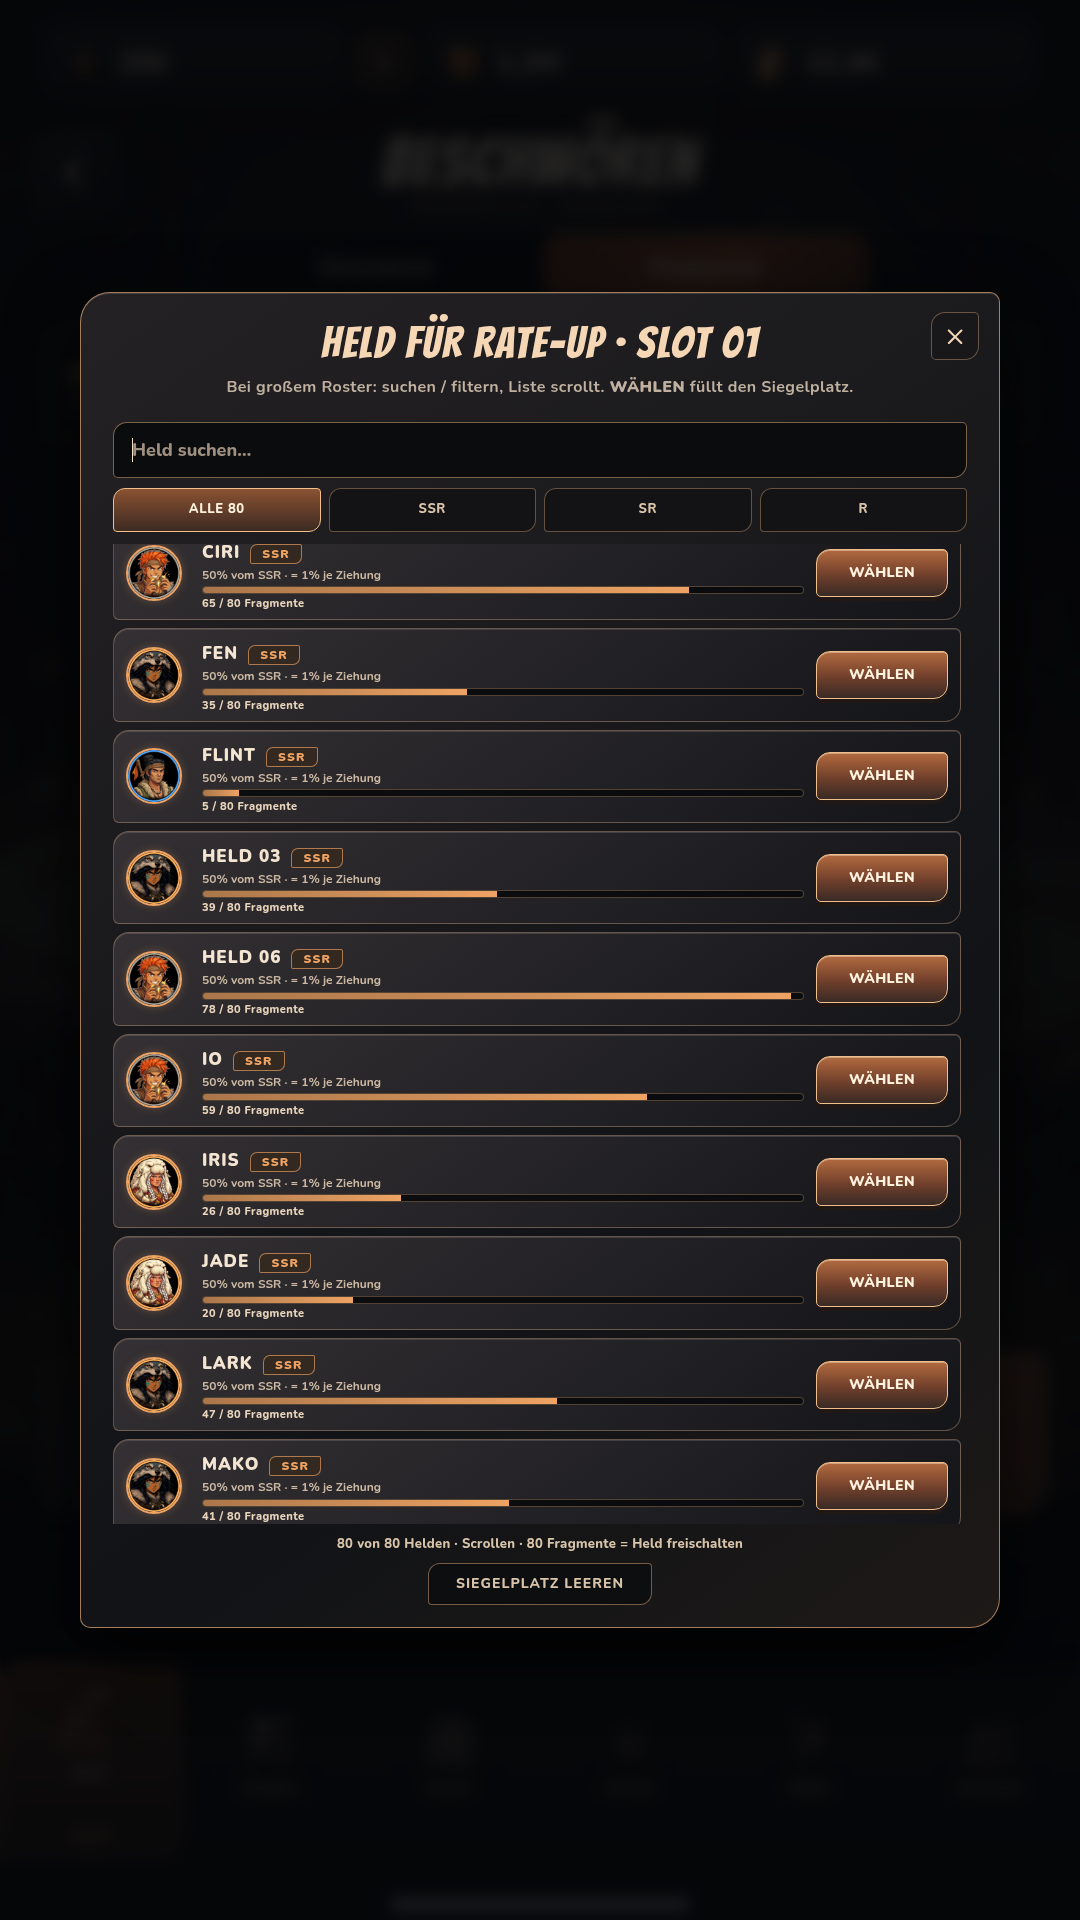
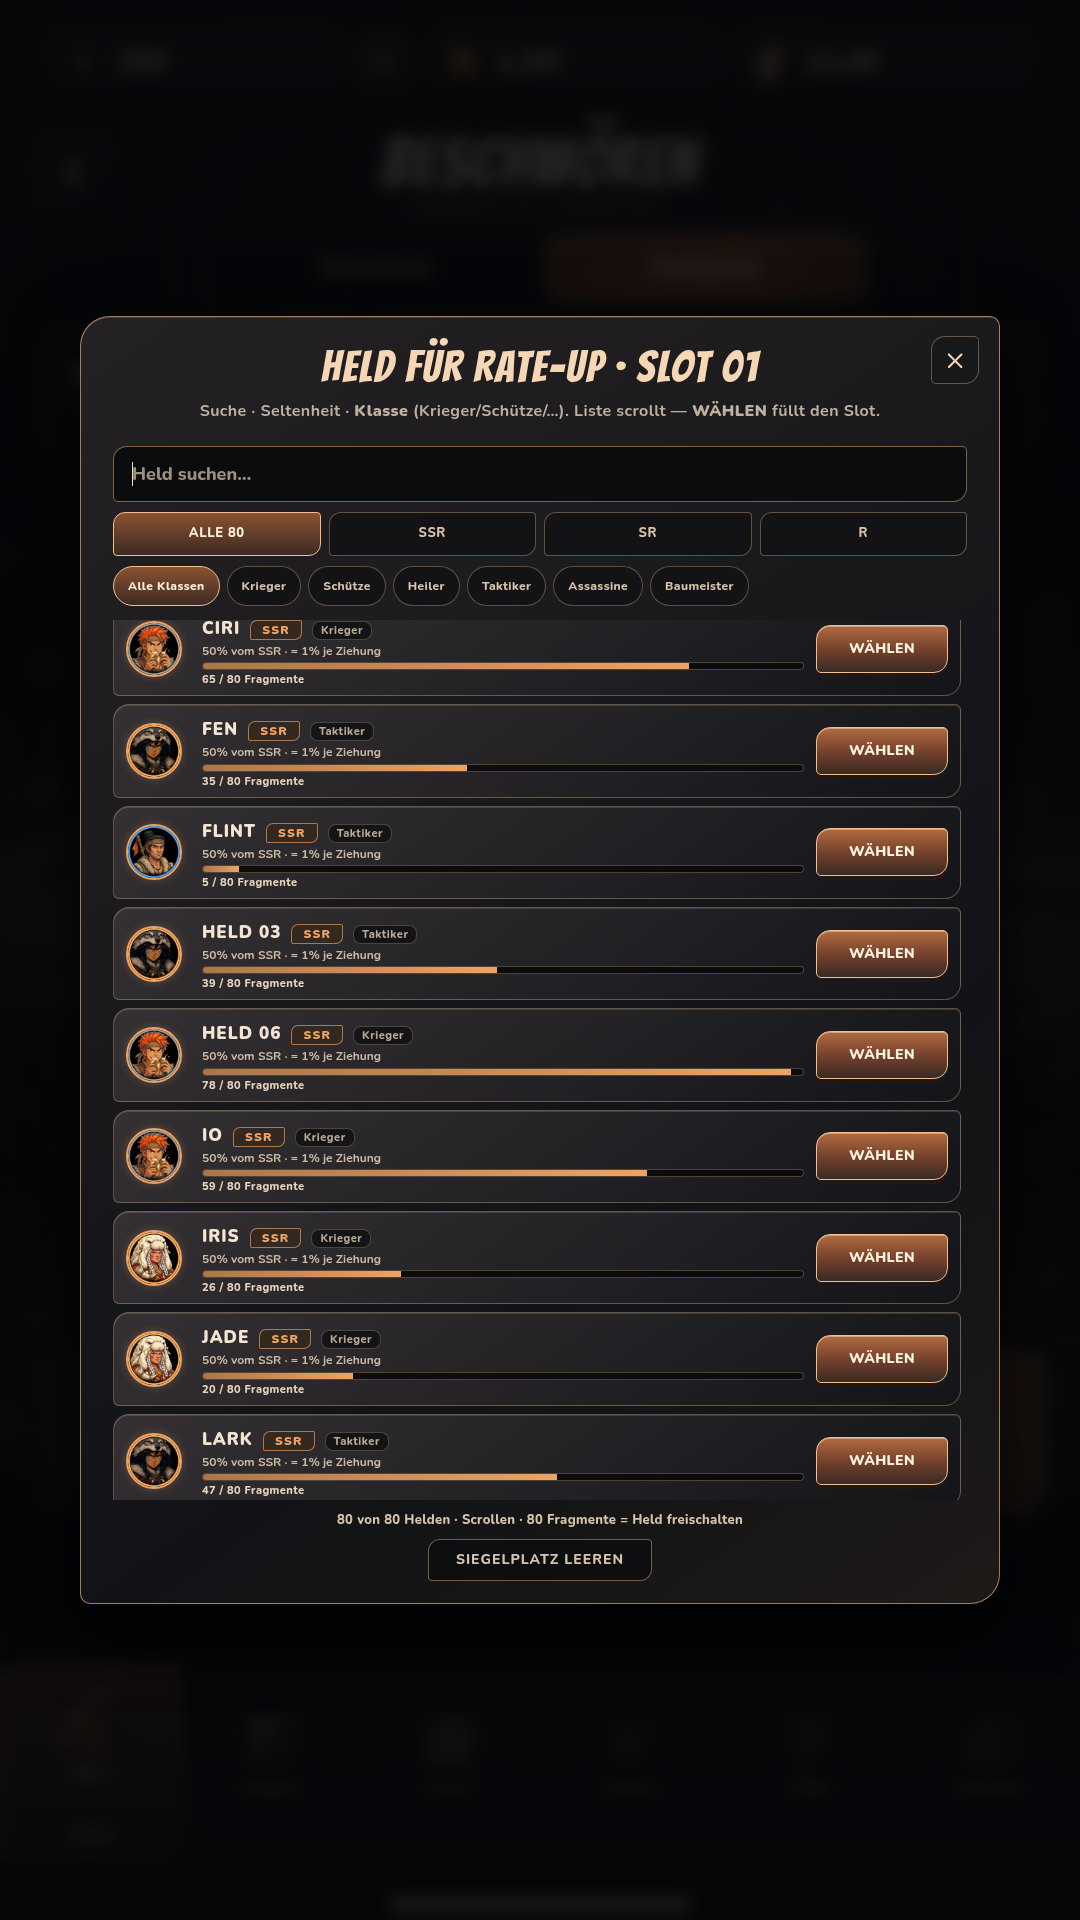
art(hud-d2): Rate-up-Picker Klassenfilter (GDD)
Chips für Krieger/Schütze/Heiler/Taktiker/Assassine/Baumeister
plus Klassen-Badge in der Liste.

Changed region(s): [[0.0611, 0.125, 0.9472, 0.875], [0.8556, 0.1562, 0.9167, 0.1875]]

diff --git a/team/art/ui-kit/menus_v3/_src/html/v3_2_obsidian_beschwoeren_reveal_v16_interaktiv.html b/team/art/ui-kit/menus_v3/_src/html/v3_2_obsidian_beschwoeren_reveal_v16_interaktiv.html
@@ -136,9 +136,14 @@ html[data-mode="standard"] .card-zone{top:366px}
 #picker-search{width:100%;height:56px;padding:0 18px;border:1px solid rgba(214,169,122,.55);border-radius:14px 5px 14px 5px;background:rgba(10,11,13,.92);color:#f2dfc8;font:800 18px/1 Nunito;outline:none;box-sizing:border-box}
 #picker-search::placeholder{color:#9e8f7e}
 .picker-filters{display:flex;gap:8px}
+.picker-classes{display:flex;gap:7px;overflow-x:auto;padding-bottom:2px;scrollbar-width:thin}
+.pc{flex:0 0 auto;height:40px;padding:0 14px;border:1px solid rgba(205,159,119,.42);border-radius:20px;background:rgba(18,18,20,.88);color:#d8c3aa;font:800 12px/1 Nunito;letter-spacing:.4px;white-space:nowrap}
+.pc.active{border-color:#f1bf8c;background:linear-gradient(180deg,#8a5232,#3d2a22);color:#fff2de}
+.hero-meta .cls{color:#b9a894;font:800 11px/1 Nunito;letter-spacing:.5px;padding:3px 8px;border:1px solid rgba(185,160,132,.35);border-radius:8px;background:rgba(10,11,13,.7)}
+
 .pf{flex:1;height:44px;border:1px solid rgba(205,159,119,.45);border-radius:12px 4px 12px 4px;background:rgba(18,18,20,.88);color:#d8c3aa;font:800 13px/1 Nunito;letter-spacing:.6px}
 .pf.active{border-color:#f1bf8c;background:linear-gradient(180deg,#8a5232,#3d2a22);color:#fff2de}
-.hero-options{display:flex;flex-direction:column;gap:8px;height:980px;overflow-y:auto;text-align:left;padding-right:6px;scrollbar-width:thin;scrollbar-color:#c9956a #1a1716}
+.hero-options{display:flex;flex-direction:column;gap:8px;height:880px;overflow-y:auto;text-align:left;padding-right:6px;scrollbar-width:thin;scrollbar-color:#c9956a #1a1716}
 .hero-option{display:grid;grid-template-columns:64px 1fr auto;gap:12px;align-items:center;padding:10px 12px;border:1px solid rgba(211,171,136,.39);border-radius:16px 6px 16px 6px;background:linear-gradient(145deg,#343033,#141519);box-shadow:inset 0 1px 0 #fff2;color:inherit;width:100%;box-sizing:border-box;flex:0 0 auto}
 .hero-option img{width:56px;height:56px;object-fit:cover;border:2px solid var(--rarity);border-radius:50%;box-shadow:0 0 10px color-mix(in srgb,var(--rarity) 28%,transparent)}
 .hero-meta{display:flex;flex-direction:column;gap:4px;min-width:0}
@@ -187,7 +192,7 @@ html[data-show-tap='1'] .rate-tap-hint{display:block}
   <div class="picker-panel">
     <button class="picker-close" id="picker-close" type="button" aria-label="Schließen">×</button>
     <h2 id="picker-title">HELD FÜR RATE-UP WÄHLEN</h2>
-    <p>Bei großem Roster: suchen / filtern, Liste scrollt. <b>WÄHLEN</b> füllt den Siegelplatz.</p>
+    <p>Suche · Seltenheit · <b>Klasse</b> (Krieger/Schütze/…). Liste scrollt — <b>WÄHLEN</b> füllt den Slot.</p>
     <div class="picker-tools">
       <input id="picker-search" type="search" placeholder="Held suchen…" autocomplete="off" aria-label="Held suchen">
       <div class="picker-filters" role="tablist" aria-label="Seltenheit">
@@ -195,6 +200,15 @@ html[data-show-tap='1'] .rate-tap-hint{display:block}
         <button type="button" class="pf" data-filter="SSR" aria-selected="false">SSR</button>
         <button type="button" class="pf" data-filter="SR" aria-selected="false">SR</button>
         <button type="button" class="pf" data-filter="R" aria-selected="false">R</button>
+      </div>
+      <div class="picker-classes" role="tablist" aria-label="Klasse">
+        <button type="button" class="pc active" data-class="ALL" aria-selected="true">Alle Klassen</button>
+        <button type="button" class="pc" data-class="warrior" aria-selected="false">Krieger</button>
+        <button type="button" class="pc" data-class="marksman" aria-selected="false">Schütze</button>
+        <button type="button" class="pc" data-class="healer" aria-selected="false">Heiler</button>
+        <button type="button" class="pc" data-class="tactician" aria-selected="false">Taktiker</button>
+        <button type="button" class="pc" data-class="assassin" aria-selected="false">Assassine</button>
+        <button type="button" class="pc" data-class="builder" aria-selected="false">Baumeister</button>
       </div>
     </div>
     <div class="hero-options" id="hero-options"></div>
@@ -236,11 +250,19 @@ html[data-show-tap='1'] .rate-tap-hint{display:block}
 <script>
 (function(){
   'use strict';
+  var CLASSES=[
+    {id:'warrior',label:'Krieger'},
+    {id:'marksman',label:'Schütze'},
+    {id:'healer',label:'Heiler'},
+    {id:'tactician',label:'Taktiker'},
+    {id:'assassin',label:'Assassine'},
+    {id:'builder',label:'Baumeister'}
+  ];
   var baseHeroes={
-    NARA:{name:'NARA',rarity:'SSR',tone:'#eea363',image:'../../_assets/reveal_v16/nara_circle.png',chance:'50% vom SSR · = 1% je Ziehung',frags:12,ready:false},
-    OLM:{name:'OLM',rarity:'SR',tone:'#67a9c1',image:'../../_assets/reveal_v16/olm_circle.png',chance:'SR-Pool · 18% Bannerchance',frags:47,ready:false},
-    KIKO:{name:'KIKO',rarity:'R',tone:'#b7a58f',image:'../../_assets/reveal_v16/kiko_circle.png',chance:'R-Pool · 80% Bannerchance',frags:80,ready:true},
-    RUKA:{name:'RUKA',rarity:'SSR',tone:'#eea363',image:'../../_assets/reveal_v16/ruka_circle.png',chance:'50% vom SSR · = 1% je Ziehung',frags:29,ready:false}
+    NARA:{name:'NARA',rarity:'SSR',cls:'marksman',tone:'#eea363',image:'../../_assets/reveal_v16/nara_circle.png',chance:'50% vom SSR · = 1% je Ziehung',frags:12,ready:false},
+    OLM:{name:'OLM',rarity:'SR',cls:'warrior',tone:'#67a9c1',image:'../../_assets/reveal_v16/olm_circle.png',chance:'SR-Pool · 18% Bannerchance',frags:47,ready:false},
+    KIKO:{name:'KIKO',rarity:'R',cls:'assassin',tone:'#b7a58f',image:'../../_assets/reveal_v16/kiko_circle.png',chance:'R-Pool · 80% Bannerchance',frags:80,ready:true},
+    RUKA:{name:'RUKA',rarity:'SSR',cls:'tactician',tone:'#eea363',image:'../../_assets/reveal_v16/ruka_circle.png',chance:'50% vom SSR · = 1% je Ziehung',frags:29,ready:false}
   };
   var rosterNames=['BRAN','TIRA','VORIK','SAEL','MORNA','KAEL','YUNA','DROK','LISSA','THORNE','ARIA','GORN','NIMA','ZAREK','ELEN','FEN','ORIN','SYLA','RAEK','MIRA','JOR','VELA','KORD','NYX','ASHA','RENN','TORA','ULRIC','PIA','WREN','IO','CAL','DEX','QUIN','HALE','IVY','JADE','KYRO','LENA','MAKO','NOVA','OPAL','PRUE','ROAN','SAGE','TESSA','UMA','VEX','WILD','XEN','YARA','ZEKE','ALBA','BO','CIRI','DALE','ECHO','FLINT','GREY','HEX','IRIS','JUNE','KITE','LARK','MOSS','NASH','OTTO','PIP','QUILL'];
   var heroes={};
@@ -251,10 +273,8 @@ html[data-show-tap='1'] .rate-tap-hint{display:block}
     var name=rosterNames[i];
     var rar=rarities[i%3];
     var frags=(i*7+11)%81;
-    heroes[name]={name:name,rarity:rar.r,tone:rar.t,image:imgs[i%4],chance:rar.c,frags:frags,ready:frags>=80};
+    heroes[name]={name:name,rarity:rar.r,cls:CLASSES[i%CLASSES.length].id,tone:rar.t,image:imgs[i%4],chance:rar.c,frags:frags,ready:frags>=80};
   }
-  // pad to 80 total including base 4
-  var keys=Object.keys(heroes);
   var n=0;
   while(Object.keys(heroes).length<80){
     n++;
@@ -262,7 +282,11 @@ html[data-show-tap='1'] .rate-tap-hint{display:block}
     if(heroes[name]) continue;
     var rar=rarities[n%3];
     var frags=(n*13)%81;
-    heroes[name]={name:name,rarity:rar.r,tone:rar.t,image:imgs[n%4],chance:rar.c,frags:frags,ready:frags>=80};
+    heroes[name]={name:name,rarity:rar.r,cls:CLASSES[n%CLASSES.length].id,tone:rar.t,image:imgs[n%4],chance:rar.c,frags:frags,ready:frags>=80};
+  }
+  function classLabel(id){
+    for(var i=0;i<CLASSES.length;i++){ if(CLASSES[i].id===id) return CLASSES[i].label; }
+    return id;
   }
 
   var featuredTen=[
@@ -372,11 +396,13 @@ html[data-show-tap='1'] .rate-tap-hint{display:block}
   modeButtons.forEach(function(button){button.addEventListener('click',function(){mode=button.getAttribute('data-mode');forceOpen=false;draw()})});
   pullButtons.forEach(function(button){button.addEventListener('click',function(){pull=button.getAttribute('data-pull');forceOpen=false;draw()})});
   var pickerFilter='ALL';
+  var pickerClass='ALL';
   var pickerQuery='';
   function heroKeysFiltered(){
     return Object.keys(heroes).filter(function(key){
       var h=heroes[key];
       if(pickerFilter!=='ALL' && h.rarity!==pickerFilter) return false;
+      if(pickerClass!=='ALL' && h.cls!==pickerClass) return false;
       if(pickerQuery && h.name.toLowerCase().indexOf(pickerQuery)===-1) return false;
       return true;
     }).sort(function(a,b){
@@ -397,7 +423,7 @@ html[data-show-tap='1'] .rate-tap-hint{display:block}
       var fill=Math.min(100, Math.round((hero.frags/80)*100))+'%';
       var btn=hero.ready?'FREI':'WÄHLEN';
       var btnClass=hero.ready?'wahl-btn ready':'wahl-btn';
-      return '<div class="hero-option" style="--rarity:'+hero.tone+'"><img src="'+hero.image+'" alt=""><div class="hero-meta"><div class="row"><strong>'+hero.name+'</strong><span class="rarity">'+hero.rarity+'</span></div><div class="chance">'+hero.chance+'</div><div class="frag-track" style="--fill:'+fill+'"><i></i></div><div class="frag-label">'+hero.frags+' / 80 Fragmente'+(hero.ready?' · BEREIT':'')+'</div></div><button class="'+btnClass+'" type="button" data-hero-choice="'+key+'">'+btn+'</button></div>';
+      return '<div class="hero-option" style="--rarity:'+hero.tone+'"><img src="'+hero.image+'" alt=""><div class="hero-meta"><div class="row"><strong>'+hero.name+'</strong><span class="rarity">'+hero.rarity+'</span><span class="cls">'+classLabel(hero.cls)+'</span></div><div class="chance">'+hero.chance+'</div><div class="frag-track" style="--fill:'+fill+'"><i></i></div><div class="frag-label">'+hero.frags+' / 80 Fragmente'+(hero.ready?' · BEREIT':'')+'</div></div><button class="'+btnClass+'" type="button" data-hero-choice="'+key+'">'+btn+'</button></div>';
     }).join('');
     document.querySelectorAll('[data-hero-choice]').forEach(function(option){
       option.addEventListener('click',function(){setRateup(activeSlot,option.getAttribute('data-hero-choice'));closePicker()});
@@ -409,11 +435,17 @@ html[data-show-tap='1'] .rate-tap-hint{display:block}
     picker.setAttribute('aria-hidden','false');
     document.getElementById('picker-title').textContent='HELD FÜR RATE-UP · SLOT '+String(slotIndex+1).padStart(2,'0');
     pickerFilter='ALL';
+    pickerClass='ALL';
     pickerQuery='';
     var search=document.getElementById('picker-search');
     if(search) search.value='';
     document.querySelectorAll('.pf').forEach(function(b){
       var on=b.getAttribute('data-filter')==='ALL';
+      b.classList.toggle('active',on);
+      b.setAttribute('aria-selected',String(on));
+    });
+    document.querySelectorAll('.pc').forEach(function(b){
+      var on=b.getAttribute('data-class')==='ALL';
       b.classList.toggle('active',on);
       b.setAttribute('aria-selected',String(on));
     });
@@ -457,6 +489,17 @@ html[data-show-tap='1'] .rate-tap-hint{display:block}
       renderPickerList();
     });
   });
+  document.querySelectorAll('.pc').forEach(function(btn){
+    btn.addEventListener('click',function(){
+      pickerClass=btn.getAttribute('data-class');
+      document.querySelectorAll('.pc').forEach(function(b){
+        var on=b===btn;
+        b.classList.toggle('active',on);
+        b.setAttribute('aria-selected',String(on));
+      });
+      renderPickerList();
+    });
+  });
   document.getElementById('all-open').addEventListener('click',function(){
     var cards=cardsNode.querySelectorAll('.card');
     cards.forEach(function(card){card.classList.add('is-open');card.setAttribute('aria-pressed','true')});
@@ -472,6 +515,11 @@ html[data-show-tap='1'] .rate-tap-hint{display:block}
   if(params.get('tap')==='1'){document.documentElement.setAttribute('data-show-tap','1');}
   if(params.get('picker')==='1'){
     openPicker(Math.max(0, Math.min(2, parseInt(params.get('slot')||'0',10)||0)));
+    var clsParam=params.get('class');
+    if(clsParam){
+      var btn=document.querySelector('.pc[data-class="'+clsParam+'"]');
+      if(btn) btn.click();
+    }
   }
 })();
 </script>
